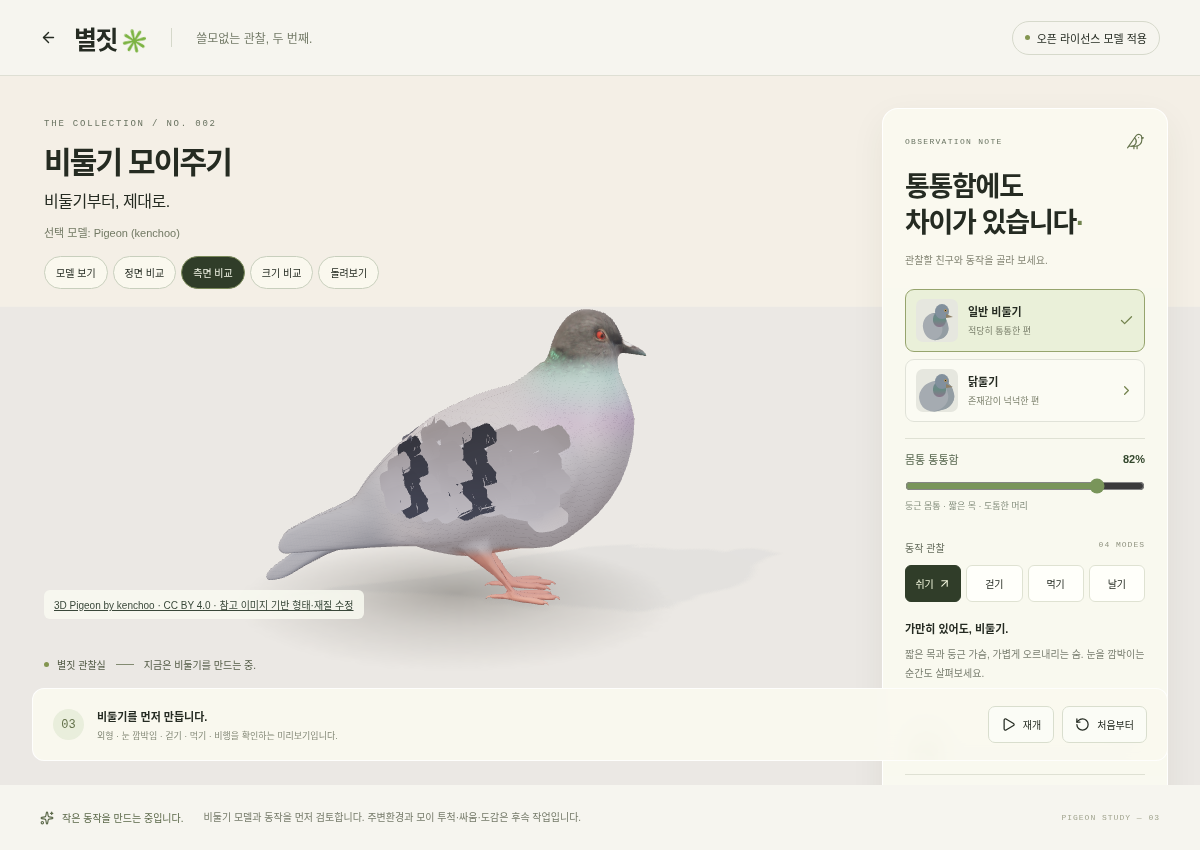
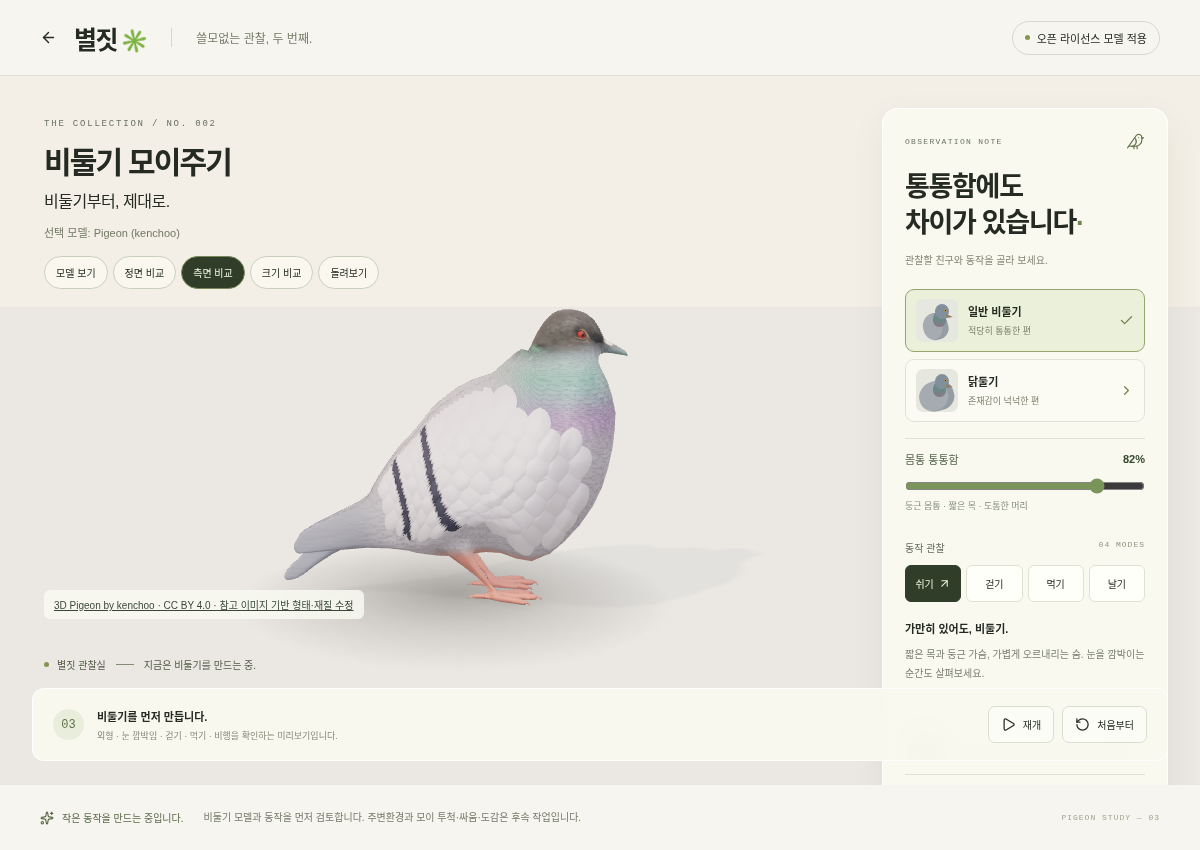
Rebuild rounded feather layers and refine compact pigeon silhouette

Changed region(s): [[0.2158, 0.3671, 0.555, 0.7341]]

diff --git a/src/features/pigeon/layered-coverts.js b/src/features/pigeon/layered-coverts.js
@@ -1,95 +1,94 @@
 import * as THREE from 'three';
-import { featherGeometry, joinGeometry } from '../../../scripts/pigeon-assets/geometry.mjs';
 
-// Small skinned vanes fitted to the imported wing. Source assets stay untouched.
+// Rounded surface-following feathers. Each vertex samples the same source triangle
+// for position, skin weights and morph deltas, avoiding floating or torn patches.
 export function installLayeredCoverts(root) {
-  const additions = [], geometries = [], materials = [];
+  const additions = [], owned = [];
   const sources = [];
   root.traverse(mesh => { if (mesh.isSkinnedMesh) sources.push(mesh); });
   for (const mesh of sources) {
-    const { position: pos, normal: normals, skinIndex, skinWeight } = mesh.geometry.attributes;
+    const { position: source, skinIndex, skinWeight } = mesh.geometry.attributes;
     if (!skinIndex || !skinWeight) continue;
-    const feather = featherGeometry(1, .5, .0012, 12, 10);
-    geometries.push(feather);
-    const material = new THREE.MeshPhysicalMaterial({
-      color: '#c5bec4', vertexColors: true, roughness: .88,
-      sheen: .2, sheenRoughness: .85, side: THREE.DoubleSide,
-      polygonOffset: true, polygonOffsetFactor: -2, polygonOffsetUnits: -2,
-    });
-    materials.push(material);
-    const parts = [], joints = [], weights = [], colors = [], lifts = [];
-    const surfaceMaterial = new THREE.MeshBasicMaterial({ side: THREE.DoubleSide });
-    const surface = new THREE.Mesh(mesh.geometry, surfaceMaterial);
-    surface.updateMatrixWorld(true);
+    const probeMaterial = new THREE.MeshBasicMaterial({ side: THREE.DoubleSide });
+    const probe = new THREE.Mesh(mesh.geometry, probeMaterial);
+    probe.updateMatrixWorld(true);
     const ray = new THREE.Raycaster();
-    const hitSurface = (side, y, z) => {
+    const positions = [], indices = [], colors = [], joints = [], weights = [];
+    const sourceMorphs = mesh.geometry.morphAttributes.position || [];
+    const morphs = sourceMorphs.map(() => []);
+    const vertex = (side, y, z, lift, shade) => {
       ray.set(new THREE.Vector3(side, y, z), new THREE.Vector3(-side, 0, 0));
-      return ray.intersectObject(surface, false)[0];
-    };
-    for (const side of [-1, 1]) for (let row = 0; row < 5; row++) for (let col = 0; col < 8; col++) {
-      const y = .375 - row * .030, z = .09 - col * .041 - (row % 2) * .016;
-      const hit = hitSurface(side, y, z);
-      if (!hit || Math.abs(hit.point.x) < .055) continue;
-      const best = hit.face.a;
-      const anchor = hit.point.clone();
-      const normal = (hit.normal || hit.face.normal).clone().normalize();
-      const growth = new THREE.Vector3(0, -.45, -.9);
-      growth.addScaledVector(normal, -growth.dot(normal)).normalize();
-      const across = new THREE.Vector3().crossVectors(growth, normal).normalize();
-      const matrix = new THREE.Matrix4().makeBasis(across, growth.clone().negate(), normal);
-      matrix.scale(new THREE.Vector3(.049 + row * .002, .062 + row * .003, 1));
-      matrix.setPosition(anchor.addScaledVector(normal, .002 + row * .0006));
-      parts.push({ geometry: feather, matrix });
-      lifts.push(.014 + row * .003 + col * .0004);
-      const stripe = col === 3 || col === 6;
-      const color = new THREE.Color(stripe ? '#424453' : '#c5bec4');
-      color.multiplyScalar(1 - .018 * Math.sin(row * 9 + col * 3));
-      for (let i = 0; i < feather.attributes.position.count; i++) {
-        joints.push(skinIndex.getX(best), skinIndex.getY(best), skinIndex.getZ(best), skinIndex.getW(best));
-        weights.push(skinWeight.getX(best), skinWeight.getY(best), skinWeight.getZ(best), skinWeight.getW(best));
-        colors.push(...color.toArray());
-      }
-    }
-    const geo = joinGeometry(parts); geometries.push(geo);
-    // Fit every vane vertex to the wing, avoiding floating planar tiles.
-    const fitted = geo.attributes.position;
-    for (let i = 0; i < fitted.count; i++) {
-      const side = fitted.getX(i) < 0 ? -1 : 1;
-      const hit = hitSurface(side, fitted.getY(i), fitted.getZ(i));
-      if (!hit) continue;
-      fitted.setX(i, hit.point.x + side * lifts[Math.floor(i / feather.attributes.position.count)]);
-      const normal = (hit.normal || hit.face.normal).clone().normalize();
-      geo.attributes.normal.setXYZ(i, normal.x, normal.y, normal.z);
+      const hit = ray.intersectObject(probe, false)[0];
+      if (!hit || Math.abs(hit.point.x) < .045) return -1;
+      const vertices = [hit.face.a, hit.face.b, hit.face.c];
       const bary = THREE.Triangle.getBarycoord(hit.point,
-        new THREE.Vector3().fromBufferAttribute(pos, hit.face.a),
-        new THREE.Vector3().fromBufferAttribute(pos, hit.face.b),
-        new THREE.Vector3().fromBufferAttribute(pos, hit.face.c), new THREE.Vector3());
+        ...vertices.map(i => new THREE.Vector3().fromBufferAttribute(source, i)), new THREE.Vector3());
+      const fractions = [bary.x, bary.y, bary.z];
       const blended = new Map();
-      for (const [index, fraction] of [[hit.face.a, bary.x], [hit.face.b, bary.y], [hit.face.c, bary.z]]) {
-        for (let j = 0; j < 4; j++) {
-          const joint = skinIndex.array[index * 4 + j];
-          blended.set(joint, (blended.get(joint) || 0) + skinWeight.array[index * 4 + j] * fraction);
-        }
+      for (let v = 0; v < 3; v++) for (let j = 0; j < 4; j++) {
+        const i = vertices[v] * 4 + j, joint = skinIndex.array[i];
+        blended.set(joint, (blended.get(joint) || 0) + skinWeight.array[i] * fractions[v]);
       }
       const selected = [...blended].sort((a,b) => b[1] - a[1]).slice(0,4);
-      const sum = selected.reduce((s,entry) => s + entry[1], 0) || 1;
-      for (let j = 0; j < 4; j++) { joints[i * 4 + j] = selected[j]?.[0] || 0; weights[i * 4 + j] = (selected[j]?.[1] || 0) / sum; }
+      const sum = selected.reduce((s,e) => s + e[1], 0) || 1;
+      const index = positions.length / 3;
+      positions.push(hit.point.x + side * lift, y, z);
+      for (let j = 0; j < 4; j++) { joints.push(selected[j]?.[0] || 0); weights.push((selected[j]?.[1] || 0) / sum); }
+      // Two continuous curved bands, not alternating dark polygon tiles.
+      const axis = z + (y - .30) * .5;
+      const band = Math.min(Math.abs(axis + .13), Math.abs(axis + .255)) < .013;
+      const color = new THREE.Color(band ? '#41414e' : '#beb7bc');
+      color.multiplyScalar(shade); colors.push(...color.toArray());
+      sourceMorphs.forEach((attribute, m) => {
+        const p = new THREE.Vector3();
+        vertices.forEach((i,v) => p.addScaledVector(new THREE.Vector3().fromBufferAttribute(attribute,i), fractions[v]));
+        if (!mesh.geometry.morphTargetsRelative) p.x += side * lift;
+        morphs[m].push(...p.toArray());
+      });
+      return index;
+    };
+    for (const side of [-1,1]) for (let row = 0; row < 9; row++) for (let col = 0; col < 12; col++) {
+      const cy = .425 - row * .025;
+      const cz = .135 - col * .038 + (row % 2) * .019;
+      // One oval wing envelope, broad at the shoulder and tapering at the tail.
+      if (((cy - .32) / .125) ** 2 + ((cz + .09) / .255) ** 2 > 1) continue;
+      const grid = [];
+      const length = .043 + row * .0015, width = .023;
+      for (let r = 0; r <= 10; r++) {
+        const t = r / 10, outline = Math.pow(Math.sin(Math.PI * t), .55);
+        const line = [];
+        for (let c = 0; c <= 8; c++) {
+          const u = c / 8 * 2 - 1;
+          const y = cy - t * length, z = cz + u * width * outline - t * .012;
+          const dome = Math.sin(t * Math.PI) * (1-u*u);
+          line.push(vertex(side, y, z, .0035 + (8-row) * .0007 + dome * .0025, .97 + dome * .055));
+        }
+        grid.push(line);
+      }
+      for (let r = 0; r < 10; r++) for (let c = 0; c < 8; c++) {
+        const a = grid[r][c], b = grid[r+1][c], d = grid[r][c+1], e = grid[r+1][c+1];
+        if (Math.min(a,b,d,e) < 0) continue;
+        indices.push(a,b,d,d,b,e);
+      }
     }
-    surfaceMaterial.dispose();
-    geo.setAttribute('skinIndex' , new THREE.Uint16BufferAttribute(joints, 4));
-    geo.setAttribute('skinWeight', new THREE.Float32BufferAttribute(weights, 4));
-    geo.setAttribute('color', new THREE.Float32BufferAttribute(colors, 3));
-    material.color.set('#ffffff');
-    const coverts = new THREE.SkinnedMesh(geo, material);
-    coverts.name = 'ReferenceLayeredCoverts';
-    coverts.frustumCulled = false; coverts.castShadow = false; coverts.receiveShadow = false;
+    probeMaterial.dispose();
+    const geo = new THREE.BufferGeometry();
+    geo.setAttribute('position', new THREE.Float32BufferAttribute(positions,3));
+    geo.setAttribute('color', new THREE.Float32BufferAttribute(colors,3));
+    geo.setAttribute('skinIndex', new THREE.Uint16BufferAttribute(joints,4));
+    geo.setAttribute('skinWeight', new THREE.Float32BufferAttribute(weights,4));
+    geo.setIndex(indices); geo.computeVertexNormals();
+    geo.morphTargetsRelative = mesh.geometry.morphTargetsRelative;
+    geo.morphAttributes.position = morphs.map(values => new THREE.Float32BufferAttribute(values,3));
+    const material = new THREE.MeshPhysicalMaterial({ color:'#ffffff', vertexColors:true,
+      roughness:.87, sheen:.18, sheenRoughness:.9, side:THREE.DoubleSide });
+    const coverts = new THREE.SkinnedMesh(geo,material);
+    coverts.name = 'ReferenceLayeredCoverts'; coverts.frustumCulled = false;
+    coverts.castShadow = false; coverts.receiveShadow = true;
     coverts.position.copy(mesh.position); coverts.quaternion.copy(mesh.quaternion); coverts.scale.copy(mesh.scale);
-    mesh.parent.add(coverts); coverts.bind(mesh.skeleton, mesh.bindMatrix);
-    additions.push(coverts);
+    mesh.parent.add(coverts); coverts.bind(mesh.skeleton,mesh.bindMatrix);
+    if (mesh.morphTargetInfluences) coverts.morphTargetInfluences = mesh.morphTargetInfluences;
+    additions.push(coverts); owned.push(geo, material);
   }
-  return () => {
-    for (const mesh of additions) mesh.removeFromParent();
-    for (const geo of geometries) geo.dispose();
-    for (const material of materials) material.dispose();
-  };
+  return () => { additions.forEach(mesh=>mesh.removeFromParent()); owned.forEach(value=>value.dispose()); };
 }

diff --git a/src/features/pigeon/feather-material.js b/src/features/pigeon/feather-material.js
@@ -29,26 +29,38 @@ export function enhancePigeonPlumage(root) {
           float head = smoothstep(.45, .55, p.y);
           float neck = smoothstep(.32, .43, p.y) * (1.0 - smoothstep(.47, .54, p.y)) * smoothstep(-.03, .10, p.z);
           vec3 pigment = mix(vec3(.33, .31, .34), vec3(.25, .29, .35), head);
-          vec3 throat = mix(vec3(.29, .18, .33), vec3(.16, .33, .30), smoothstep(.38, .48, p.y));
+          vec3 throat = mix(vec3(.24, .12, .28), vec3(.085, .235, .19), smoothstep(.38, .48, p.y));
           pigment = mix(pigment, throat, neck * .85);
           // Rounded scallops run down the chest; neck feathers are smaller.
-          float size = mix(85.0, 180.0, max(neck, head));
+          float size = mix(58.0, 115.0, max(neck, head));
           vec2 grid = vec2(atan(p.x, p.z + .04) * .11, p.y) * size;
           float row = floor(grid.y);
           vec2 cell = vec2(fract(grid.x + mod(row, 2.0) * .5), fract(grid.y));
           float edge = abs(cell.y - (.23 + .48 * pow(abs(cell.x - .5) * 2.0, 2.0)));
-          float seam = 1.0 - smoothstep(.025, .095, edge);
+          float filterWidth = max(fwidth(edge), .015);
+          float seam = 1.0 - smoothstep(.035, .065 + filterWidth, edge);
+          float featherRelief = smoothstep(.0, .20, edge) * (1.0 - smoothstep(.68, .96, cell.y));
           pigment *= 1.0 - seam * mix(.13, .20, neck);
           float tail = 1.0 - smoothstep(-.29, -.18, p.z);
           pigment = mix(pigment, vec3(.15, .17, .21), tail * .75);
           // Preserve the original eyes, beak and cere, but remove its mottled body atlas.
-          float face = smoothstep(.46, .52, p.y);
+          float face = smoothstep(.49, .54, p.y);
           float feet = (1.0 - smoothstep(.09, .125, p.y)) * smoothstep(-.14, -.06, p.z);
           vec3 detail = mix(diffuseColor.rgb, vec3(.52, .19, .15), feet * .80);
 
           diffuseColor.rgb = mix(pigment, detail, max(face, feet));
+          featherRelief *= (1.0 - max(face, feet)) * (1.0 - tail * .75);
         `);
-        shader.fragmentShader = shader.fragmentShader.replace('#include <roughnessmap_fragment>', `
+        shader.fragmentShader = shader.fragmentShader.replace('#include <normal_fragment_maps>', `
+          #include <normal_fragment_maps>
+          // Shallow actual normal relief; no high-frequency speckle/noise.
+          vec3 dpdx = dFdx(-vViewPosition), dpdy = dFdy(-vViewPosition);
+          vec3 rx = cross(dpdy, normal), ry = cross(normal, dpdx);
+          float determinant = dot(dpdx, rx);
+          vec3 gradient = dFdx(featherRelief * .00065) * rx + dFdy(featherRelief * .00065) * ry;
+          normal = normalize(abs(determinant) * normal - sign(determinant) * gradient);
+        `);
+        shader.fragmentShader = shader.fragmentShader.replace('#include <roughnessmap_fragment>' , `
           #include <roughnessmap_fragment>
           roughnessFactor = mix(.88, .56, neck);
         `);
@@ -59,7 +71,7 @@ export function enhancePigeonPlumage(root) {
           #endif
         `);
       };
-      material.customProgramCacheKey = () => 'pigeon-stylized-reference-1';
+      material.customProgramCacheKey = () => 'pigeon-stylized-reference-2';
       replacements.set(original, material);
       return material;
     });

diff --git a/src/features/pigeon/pigeon-body-shape.js b/src/features/pigeon/pigeon-body-shape.js
@@ -32,6 +32,8 @@ export function sculptPigeonPoint(point, weights, roundness) {
   const length = smooth(-0.34, -0.11, point.z) *
     (1 - smooth(0.20, 0.345, point.z));
   const field = strength * tissue * vertical * length;
+  const torso = strength * tissue * smooth(.10, .23, point.y) * (1 - smooth(.43, .53, point.y));
+  const rear = 1 - smooth(-.20, -.04, point.z);
   // Elliptical, rounded belly: widen, deepen and subtly drop the abdomen.
   // Widen the neck and slightly enlarge the head around its own center.
   // Feet remain exact; the tail shortens towards its root rather than stretching.
@@ -41,8 +43,8 @@ export function sculptPigeonPoint(point, weights, roundness) {
   const tail = strength * weights.tail * (1 - smooth(-.19, -.05, point.z));
   return {
     x: point.x * (1 + field * 1.12 + head * .22 + neck * .40),
-    y: 0.305 + (point.y - 0.305) * (1 + field * 0.31) - field * 0.018 - (head + neck) * .028 + (point.y - .55) * head * .12,
-    z: 0.015 + (point.z - 0.015) * (1 + field * 0.12) + field * 0.014 + (point.z - .17) * head * .12 - (point.z + .15) * tail * .20,
+    y: 0.305 + (point.y - 0.305) * (1 + field * 0.62) - field * 0.024 - (head + neck) * .028 + (point.y - .55) * head * .12,
+    z: 0.015 + (point.z - 0.015) * (1 + field * 0.12) + field * 0.014 + torso * rear * .075 + (point.z - .17) * head * .12 - (point.z + .15) * tail * .42,
     influence: field,
   };
 }
@@ -93,9 +95,9 @@ export function installPigeonBodySculpt(root, initialRoundness = 82) {
           // Approximate inverse-transpose of local ellipsoidal scaling.
           // Preserve the authored normals to avoid introducing UV seam artifacts.
           const [nx, ny, nz] = normalize(
-            originalNormal[k] / (1 + 0.92 * p.influence),
-            originalNormal[k + 1] / (1 + 0.31 * p.influence),
-            originalNormal[k + 2] / (1 + 0.40 * p.influence),
+            originalNormal[k] / (1 + 1.12 * p.influence),
+            originalNormal[k + 1] / (1 + 0.62 * p.influence),
+            originalNormal[k + 2] / (1 + 0.12 * p.influence),
           );
           normal.setXYZ(i, nx, ny, nz);
         }

diff --git a/tests/unit/pigeon-coverts.test.js b/tests/unit/pigeon-coverts.test.js
@@ -12,6 +12,10 @@ test('layered coverts follow the skinned surface and survive reversible roundnes
   const weights = new Float32Array(count * 4);
   for (let i = 0; i < count; i++) weights[i * 4] = 1;
   geo.setAttribute('skinWeight', new THREE.Float32BufferAttribute(weights, 4));
+  geo.morphTargetsRelative = true;
+  const morph = new Float32Array(count * 3);
+  for (let i = 0; i < count; i++) morph[i * 3] = .001;
+  geo.morphAttributes.position = [new THREE.Float32BufferAttribute(morph, 3)];
   const original = Float32Array.from(geo.attributes.position.array);
   const mat = new THREE.MeshStandardMaterial();
   const mesh = new THREE.SkinnedMesh(geo, mat);
@@ -22,6 +26,9 @@ test('layered coverts follow the skinned surface and survive reversible roundnes
   const coverts = root.getObjectByName('ReferenceLayeredCoverts');
   assert.ok(coverts?.isSkinnedMesh);
   assert.equal(coverts.skeleton, mesh.skeleton);
+  assert.equal(coverts.morphTargetInfluences, mesh.morphTargetInfluences);
+  assert.equal(coverts.geometry.morphAttributes.position[0].count, coverts.geometry.attributes.position.count);
+  for (const delta of coverts.geometry.morphAttributes.position[0].array) assert.ok(Number.isFinite(delta));
   const attrs = coverts.geometry.attributes;
   assert.ok(attrs.position.count > 100);
   for (let i = 0; i < attrs.position.count; i++) {

diff --git a/docs/pigeon/STYLIZED-REFERENCE.md b/docs/pigeon/STYLIZED-REFERENCE.md
@@ -13,3 +13,9 @@ The supplied reference remains a visual target, not a claim of an exact match. T
 Attribution: [Pigeon by kenchoo](https://sketchfab.com/3d-models/pigeon-ddd5ef4a94eb4159937a9de25c45697c), CC BY 4.0. Source files remain unchanged; runtime shape and material modifications are described above.
 
 Validation: six unit-test files pass; production build passes. Chromium/SwiftShader rendered front, side and three-quarter views without console/page errors. Final smoke check also changes roundness 0 → 100 → 82 and switches walk/eat/fly/idle. This verifies rendering and controls, not real-time GPU performance or every animation pose. See `stylized-reference/side.png` for the final side view. Wing vanes remain a first-pass approximation of the reference and need artistic refinement.
+
+## Second detail pass
+
+Lighting is unchanged from the first pass. Rear torso compression and stronger vertical belly volume shorten the triangular silhouette; tail shortening is increased. Coverts are rebuilt as individual rounded, staggered vanes over an oval wing envelope. Per-vertex surface intersections interpolate both rig weights and source morph targets; the overlay shares the original morph influences. Two bind-space curved bands replace per-tile color assignment. The body uses filtered scallop edges and shallow normal relief rather than speckled pigment; facial details and feet are excluded from this relief.
+
+The side preview is updated for this pass. Reference matching still depends on pose: the neutral standing bird is not forced into the supplied feeding pose.
